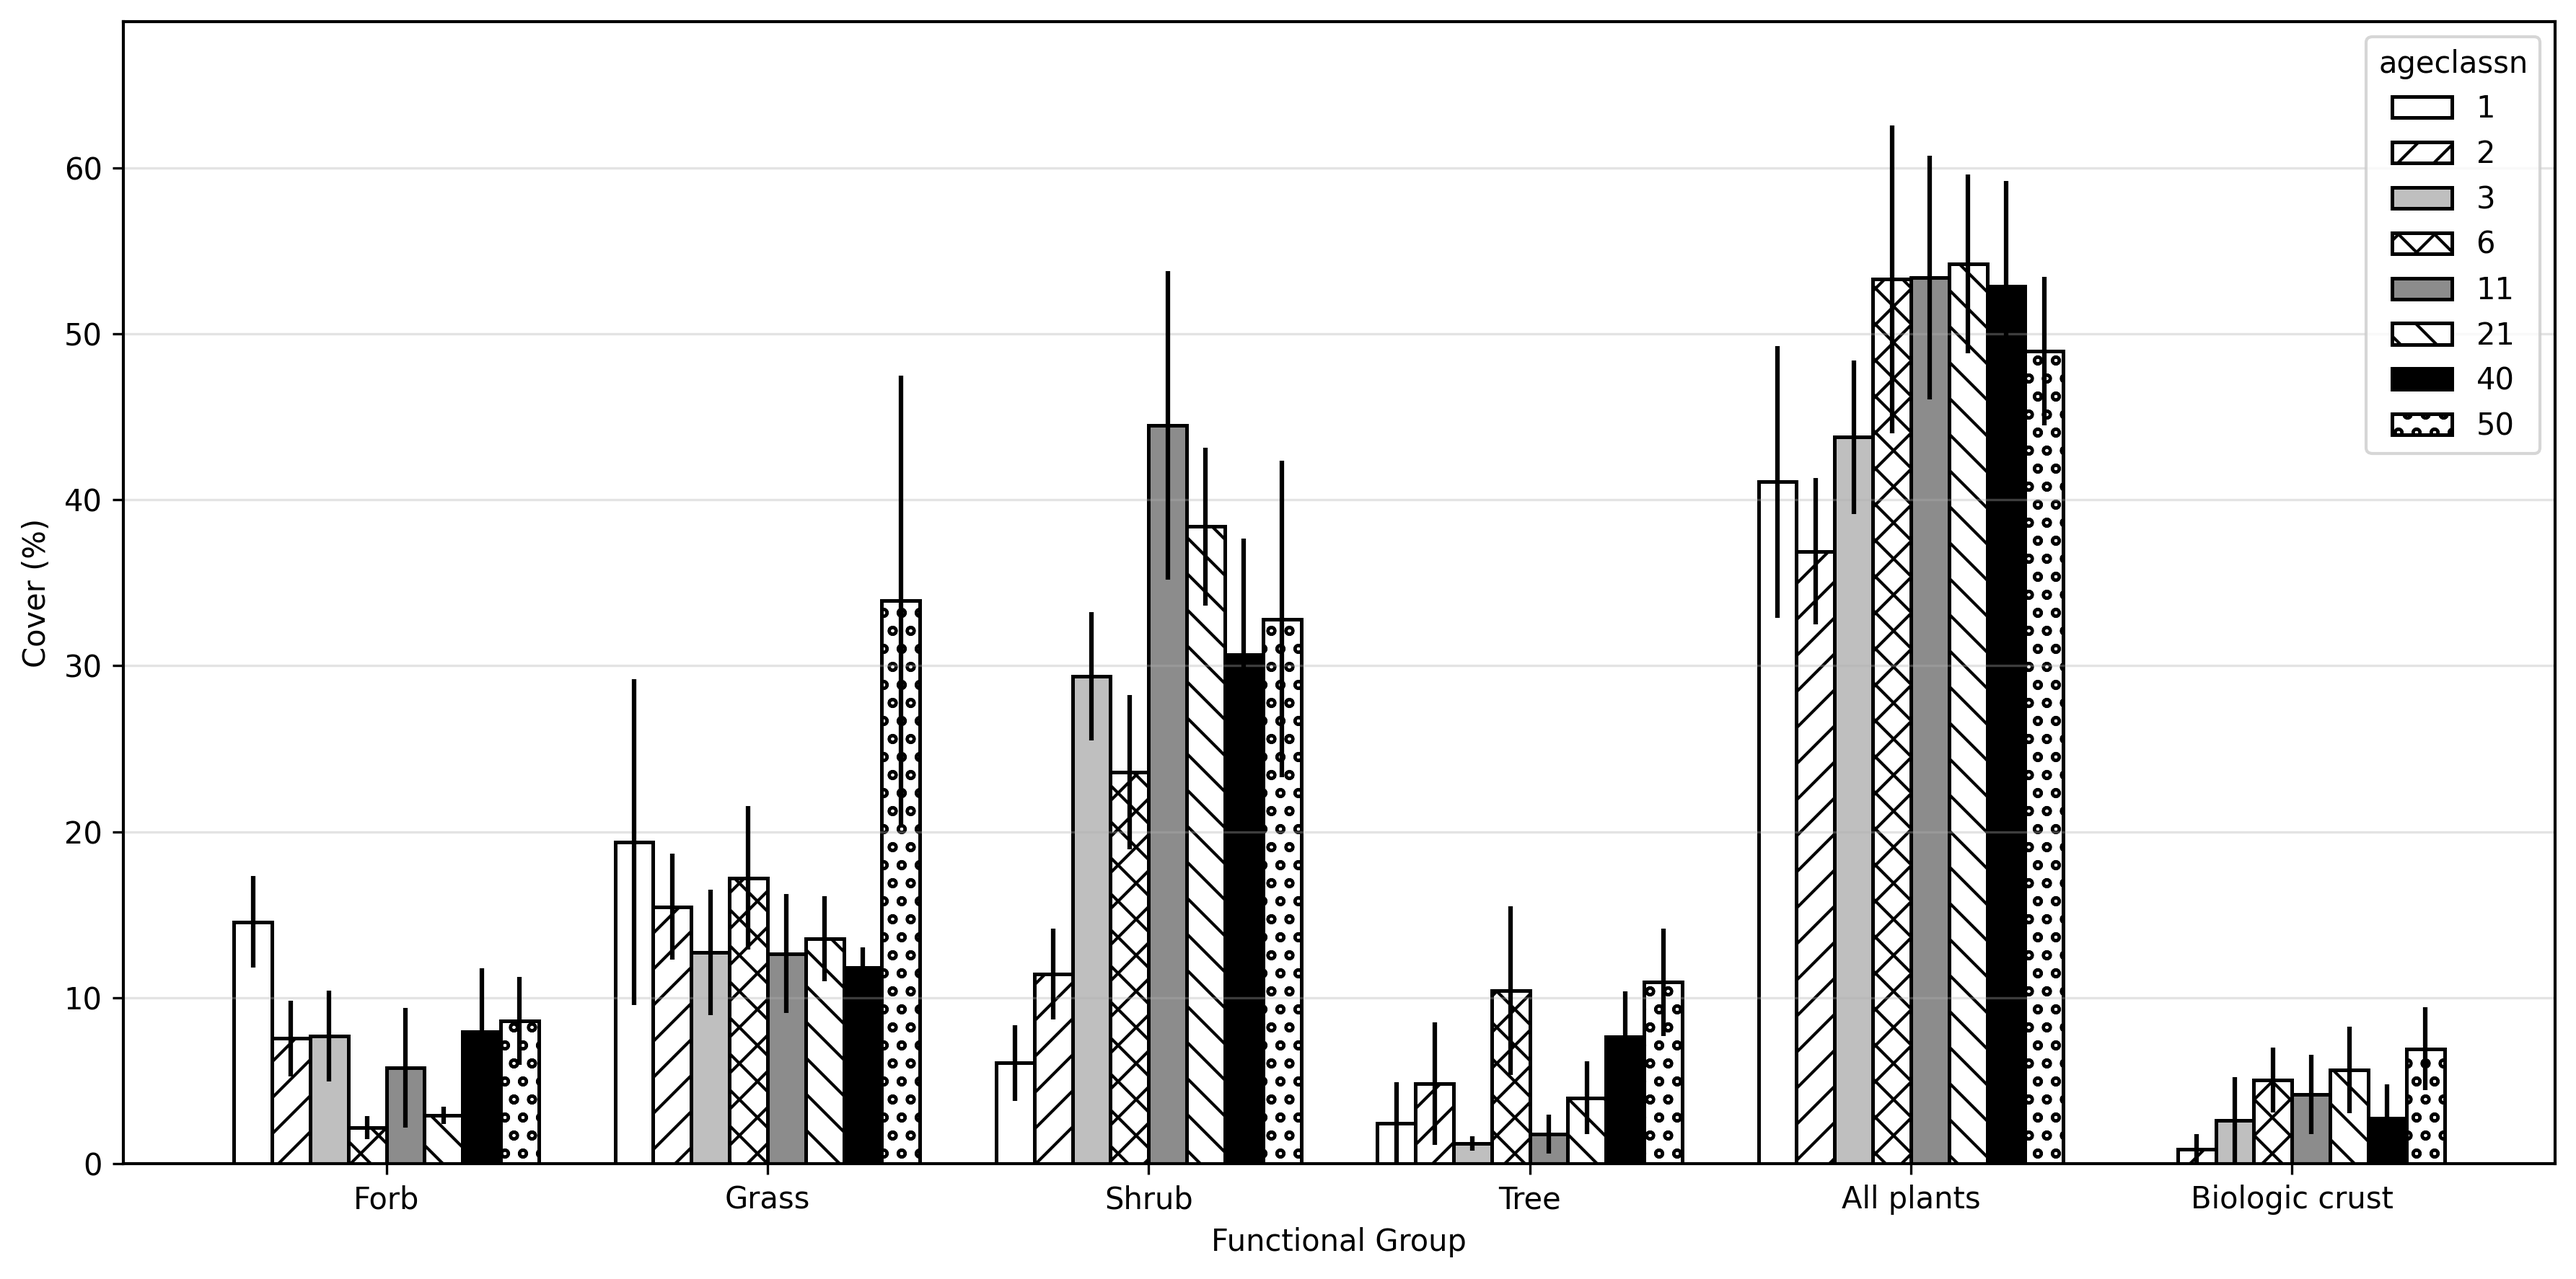
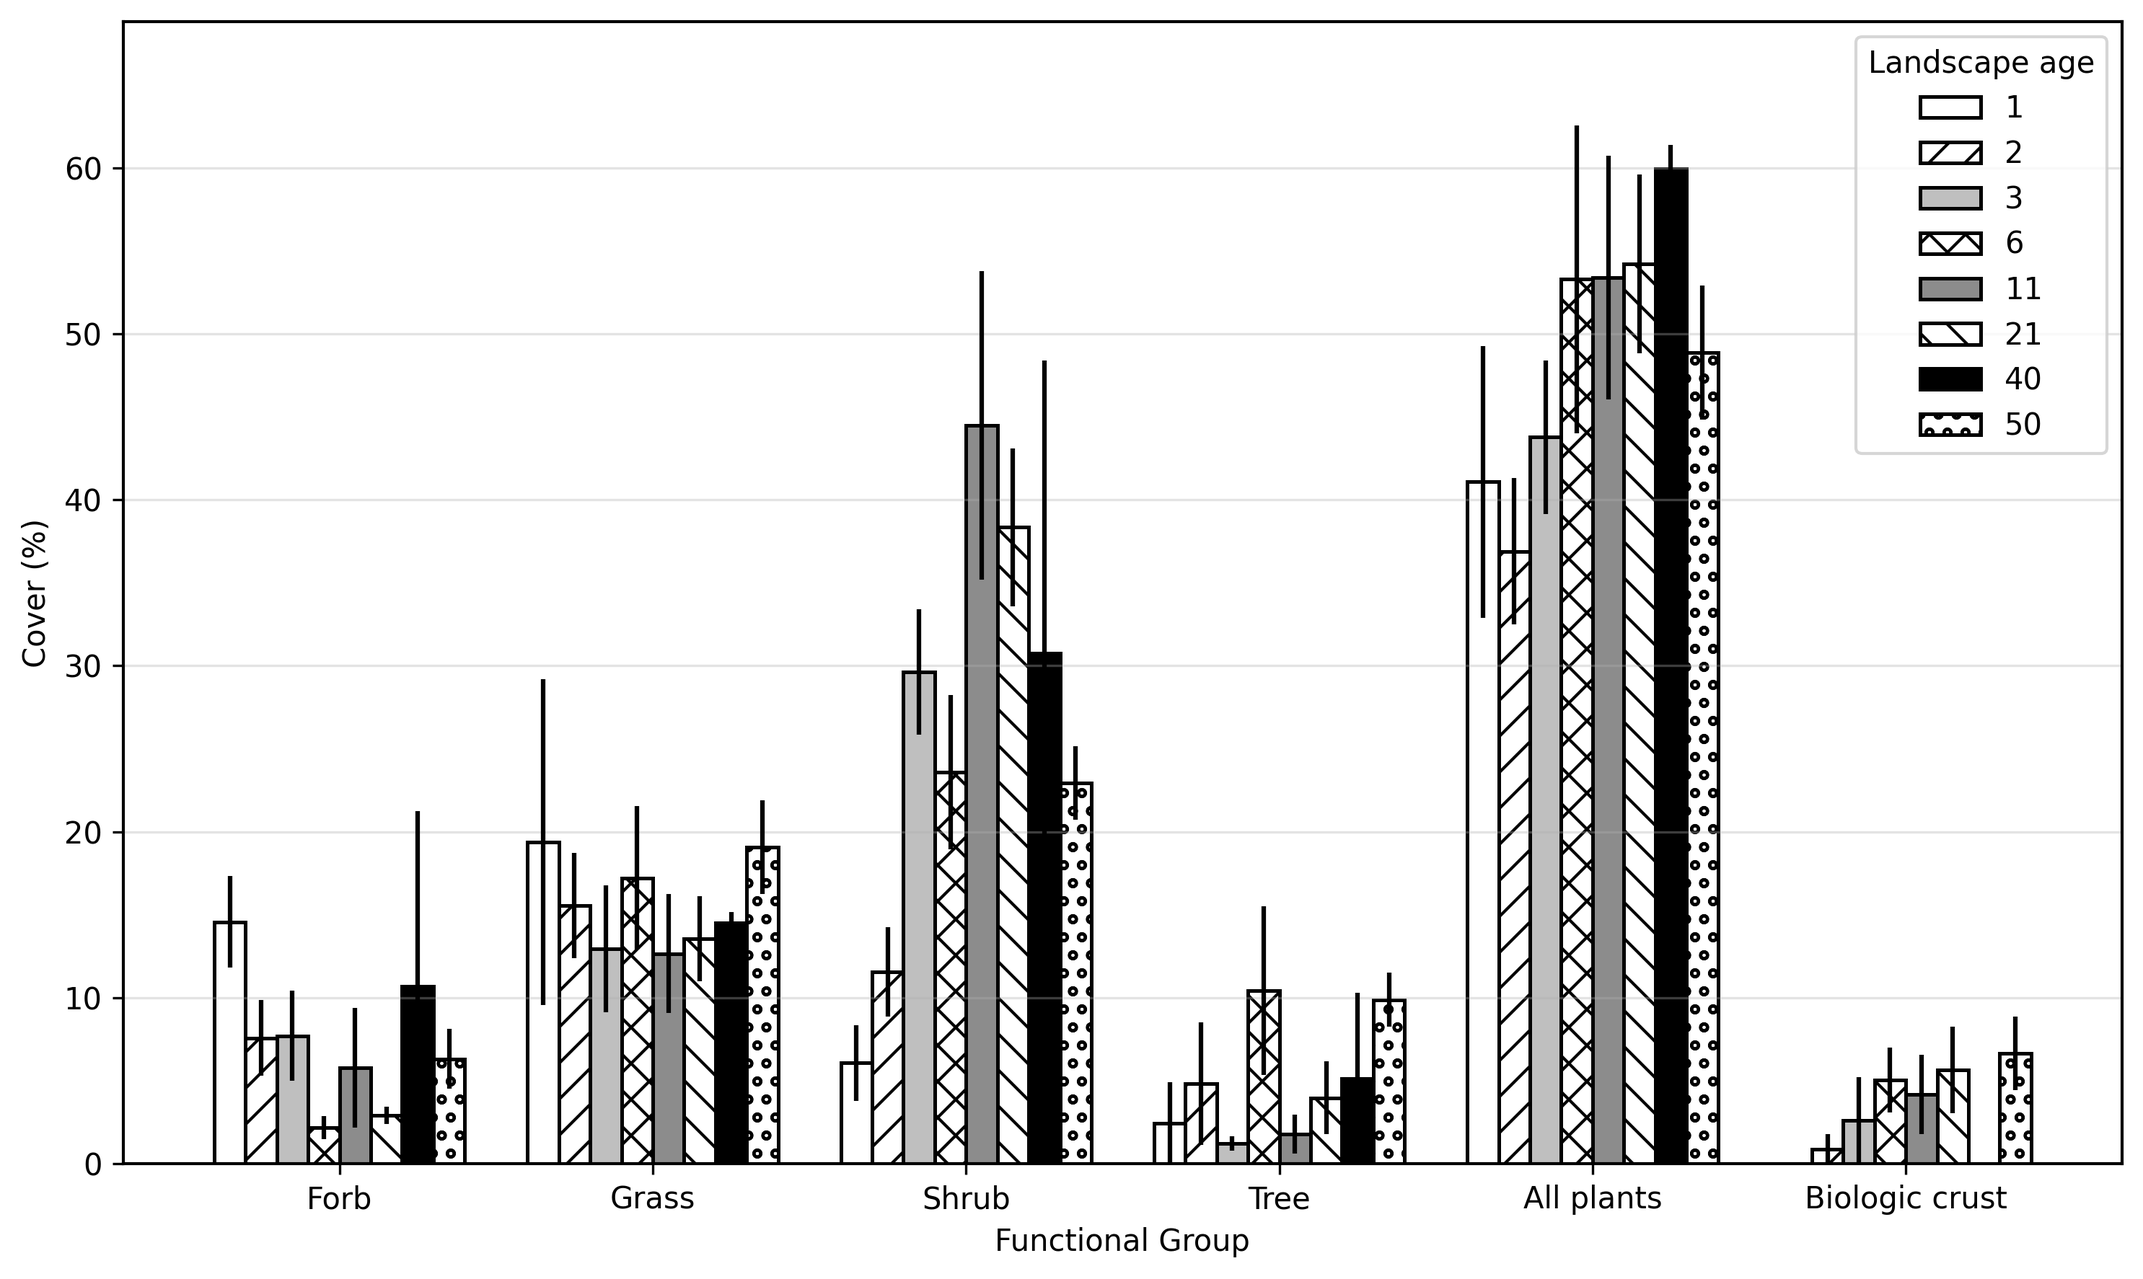
Analysis_012926

diff --git a/script/parameters.abv.blw.py b/script/parameters.abv.blw.py
@@ -1,0 +1,41 @@
+import pandas as pd
+import matplotlib.pyplot as plt
+import numpy as np
+
+csv_path = "//workspaces/glen.cyn.ecosystem/data/cover.site.ecosystem.shrub.combined.csv"
+df = pd.read_csv(csv_path)
+
+# Categories become the groups
+categories = ["native", "nonnative", "total", "annual", "perennial"]
+ab_values = df["ab"]
+
+x = np.arange(len(categories))  # category positions
+width = 0.35                    # width of bars
+
+fig, ax = plt.subplots()
+
+# Plot one bar per ab value inside each category
+for i, ab in enumerate(ab_values):
+    ax.bar(
+        x + i * width,
+        df.loc[i, categories],
+        width,
+        label=f"ab = {ab}"
+    )
+
+# Formatting
+ax.set_xlabel("Category")
+ax.set_ylabel("Value")
+ax.set_title("Grouped Bar Chart by Category with ab Split")
+ax.set_xticks(x + width / 2)
+ax.set_xticklabels(categories)
+ax.legend()
+
+plt.tight_layout()
+
+# ---- Save figure ----
+output_path = "Parameters_AbvBlw.png"
+plt.savefig(output_path, dpi=300, bbox_inches="tight")
+print(f"Saved figure to: {output_path}")
+
+plt.show()

diff --git a/script/group.age.bar.py b/script/group.age.bar.py
@@ -48,7 +48,7 @@ n_ages = len(age_classes)
 bar_w = 0.10
 offsets = (np.arange(n_ages) - (n_ages - 1) / 2.0) * bar_w
 
-fig, ax = plt.subplots(figsize=(12, 6), dpi=150)
+fig, ax = plt.subplots(figsize=(10, 6), dpi=150)
 
 for i, a in enumerate(age_classes):
     style = styles[i % len(styles)]
@@ -72,7 +72,7 @@ ax.set_xlabel("Functional Group")
 ax.set_ylim(0, max(1, (means.values + ses.values).max() * 1.10))
 ax.grid(axis="y", alpha=0.35)
 
-ax.legend(title="ageclassn", loc="upper right", frameon=True)
+ax.legend(title="Landscape age", loc="upper right", frameon=True)
 
 for spine in ax.spines.values():
     spine.set_linewidth(1.0)
